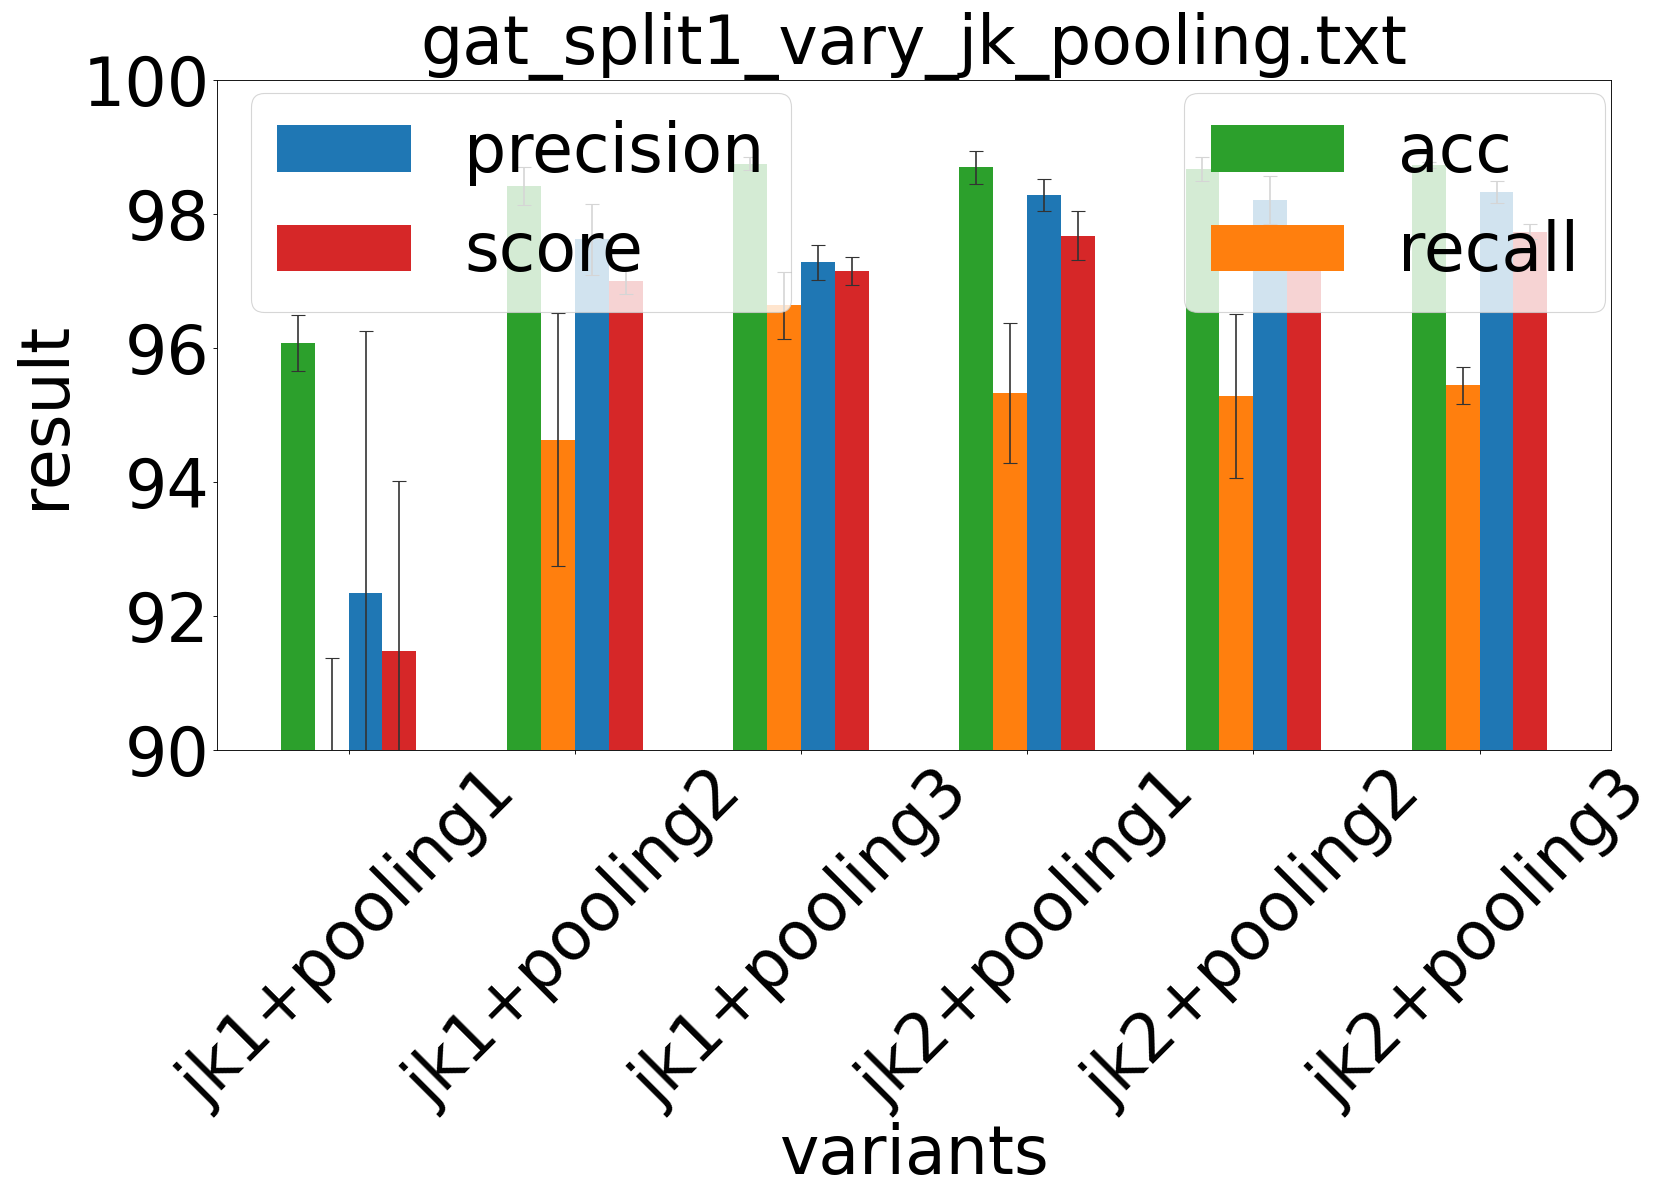
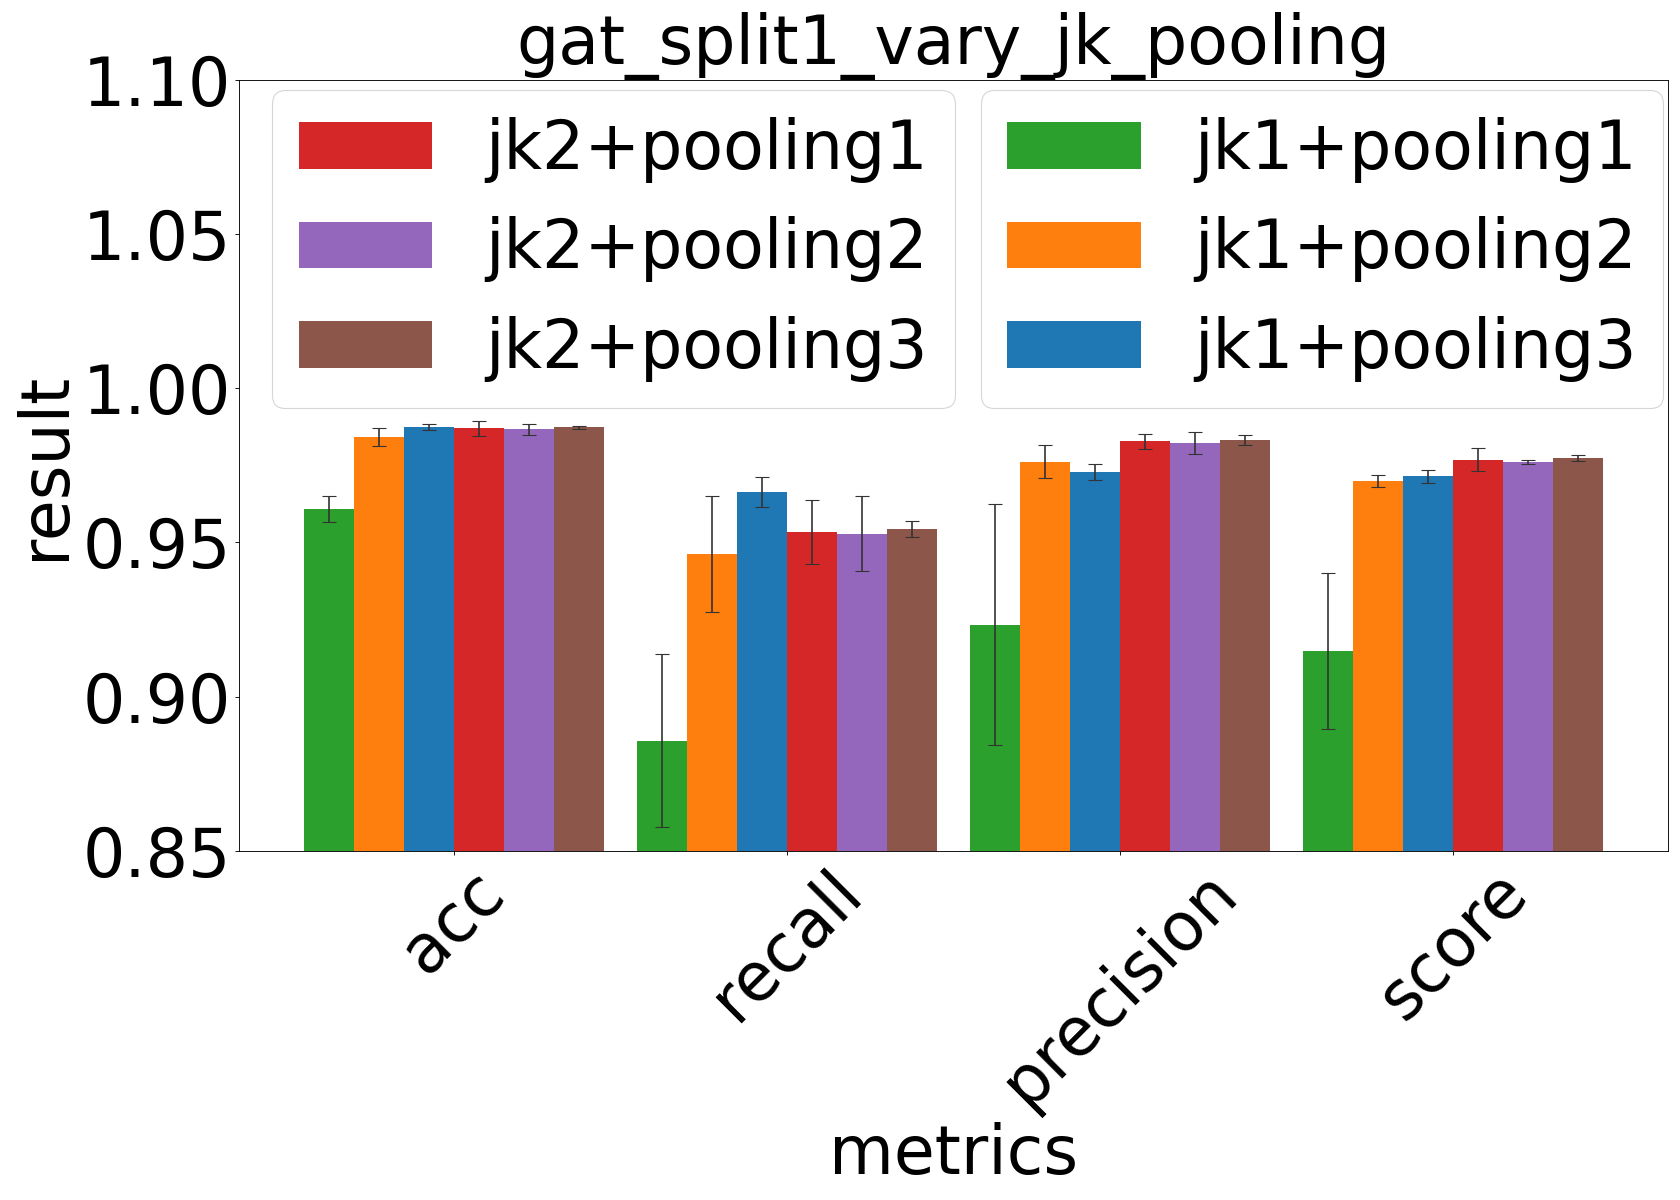
plot gat vary jk+pooling

diff --git a/plot_bar.py b/plot_bar.py
@@ -14,7 +14,9 @@ args = parser.parse_args()
 y_avg = {}
 y_std = {}
 configs = []
+metrics = []
 with open(f"rslt_data/{args.datafile}", "r") as fin:
+    line_cnt = 0
     for line in fin.readlines():
         items = line.strip('\n').split('Avg.')
         config = (items[0].split('_')[1]+'+'+items[0].split('_')[2]).strip(',')
@@ -22,12 +24,15 @@ with open(f"rslt_data/{args.datafile}", "r") as fin:
         for i in range(1, len(items)):
             metric_rslt = items[i].split(':')
             metric = metric_rslt[0]
-            if metric not in y_avg.keys():
-                y_avg[metric] = []
-                y_std[metric] = []
+            if line_cnt == 0:
+                metrics.append(metric)
+            if config not in y_avg.keys():
+                y_avg[config] = []
+                y_std[config] = []
             avg_std = metric_rslt[1].split('+-')
-            y_avg[metric].append(float(avg_std[0]))
-            y_std[metric].append(float(avg_std[1][:4]))
+            y_avg[config].append(float(avg_std[0])/100)
+            y_std[config].append(float(avg_std[1][:4])/100)
+        line_cnt += 1
 
 print("y_avg:", y_avg)
 print("y_std:", y_std)
@@ -40,7 +45,7 @@ color_dict = {'red':    '#D62728',
               'brown':  '#8C564B',
               'purple': '#9467BD'}
 
-metrics = list(y_avg.keys())
+# metrics = list(y_avg.keys())
 print("metrics:", metrics)
 error_kw = {'ecolor' : '0.2', 'capsize' :6 }
 alpha=1
@@ -50,30 +55,35 @@ fontsize = 60
 ticks_fontsize = 60 
 legend_fontsize = 60
 plt.figure(figsize=(21,15), dpi=80)
-xs_str = configs
+xs_str = metrics
 x_locs = np.arange(len(xs_str))  # x轴刻度标签位置
 width = 0.15 # 柱子宽度
-# 四个柱子
+# 6个柱子
 if args.with_std == 1:
-    bar1 = plt.bar(x_locs-1.5*width, y_avg[metrics[0]], yerr=y_std[metrics[0]], width=width, error_kw=error_kw, alpha=alpha ,color=color_dict['green'], label=metrics[0])
-    bar2 = plt.bar(x_locs-0.5*width, y_avg[metrics[1]], yerr=y_std[metrics[1]], width=width, error_kw=error_kw, alpha=alpha ,color=color_dict['orange'], label=metrics[1])
-    bar3 = plt.bar(x_locs+0.5*width, y_avg[metrics[2]], yerr=y_std[metrics[2]], width=width, error_kw=error_kw, alpha=alpha, color=color_dict['blue'], label=metrics[2])
-    bar4 = plt.bar(x_locs+1.5*width, y_avg[metrics[3]], yerr=y_std[metrics[3]], width=width, error_kw=error_kw, alpha=alpha, color=color_dict['red'], label=metrics[3])
+    bar1 = plt.bar(x_locs-2.5*width, y_avg[configs[0]], yerr=y_std[configs[0]], width=width, error_kw=error_kw, alpha=alpha ,color=color_dict['green'], label=configs[0])
+    bar2 = plt.bar(x_locs-1.5*width, y_avg[configs[1]], yerr=y_std[configs[1]], width=width, error_kw=error_kw, alpha=alpha ,color=color_dict['orange'], label=configs[1])
+    bar3 = plt.bar(x_locs-0.5*width, y_avg[configs[2]], yerr=y_std[configs[2]], width=width, error_kw=error_kw, alpha=alpha, color=color_dict['blue'], label=configs[2])
+    bar4 = plt.bar(x_locs+0.5*width, y_avg[configs[3]], yerr=y_std[configs[3]], width=width, error_kw=error_kw, alpha=alpha, color=color_dict['red'], label=configs[3])
+    bar5 = plt.bar(x_locs+1.5*width, y_avg[configs[4]], yerr=y_std[configs[4]], width=width, error_kw=error_kw, alpha=alpha, color=color_dict['purple'], label=configs[4])
+    bar6 = plt.bar(x_locs+2.5*width, y_avg[configs[5]], yerr=y_std[configs[5]], width=width, error_kw=error_kw, alpha=alpha, color=color_dict['brown'], label=configs[5])
 else:
-    bar1 = plt.bar(x_locs-1.5*width, y_avg[metrics[0]], width=width, alpha=alpha ,color=color_dict['green'], label=metrics[0])
-    bar2 = plt.bar(x_locs-0.5*width, y_avg[metrics[1]], width=width, alpha=alpha ,color=color_dict['orange'], label=metrics[1])
-    bar3 = plt.bar(x_locs+0.5*width, y_avg[metrics[2]], width=width, alpha=alpha, color=color_dict['blue'], label=metrics[2])
-    bar4 = plt.bar(x_locs+1.5*width, y_avg[metrics[3]], width=width, alpha=alpha, color=color_dict['red'], label=metrics[3])
+    bar1 = plt.bar(x_locs-1.5*width, y_avg[configs[0]], width=width, alpha=alpha ,color=color_dict['green'], label=configs[0])
+    bar2 = plt.bar(x_locs-0.5*width, y_avg[configs[1]], width=width, alpha=alpha ,color=color_dict['orange'], label=configs[1])
+    bar3 = plt.bar(x_locs+0.5*width, y_avg[configs[2]], width=width, alpha=alpha, color=color_dict['blue'], label=configs[2])
+    bar4 = plt.bar(x_locs+1.5*width, y_avg[configs[3]], width=width, alpha=alpha, color=color_dict['red'], label=configs[3])
+    bar5 = plt.bar(x_locs+1.5*width, y_avg[configs[4]], width=width, alpha=alpha, color=color_dict['purple'], label=configs[4])
+    bar6 = plt.bar(x_locs+2.5*width, y_avg[configs[5]], width=width, alpha=alpha, color=color_dict['brown'], label=configs[5])
 
 plt.xticks(x_locs, labels=xs_str, fontsize=ticks_fontsize, rotation=45)
 plt.yticks(fontsize=ticks_fontsize)
-plt.ylim(90,100)
-figure_title = args.datafile.split(' ')[0]
+# plt.ylim(90,100)
+plt.ylim(0.85,1.10)
+figure_title = args.datafile.split('.')[0]
 plt.title(f'{figure_title}', fontsize=fontsize)
-plt.xlabel(f'variants', fontsize=fontsize)
+plt.xlabel(f'metrics', fontsize=fontsize)
 plt.ylabel(f'result', fontsize=fontsize)
-a=plt.legend([bar1, bar2],[metrics[0], metrics[1]], loc="upper right", bbox_to_anchor=(1.02,1.03), fontsize=legend_fontsize)
-plt.legend([bar3, bar4],[metrics[2], metrics[3]],loc="upper left", bbox_to_anchor=(0.00,1.03), fontsize=legend_fontsize)
+a=plt.legend([bar1, bar2, bar3],[configs[0], configs[1], configs[2]], loc="upper right", bbox_to_anchor=(1.02,1.03), fontsize=legend_fontsize)
+plt.legend([bar4, bar5, bar6],[configs[3], configs[4], configs[5]],loc="upper left", bbox_to_anchor=(0.00,1.03), fontsize=legend_fontsize)
 plt.gca().add_artist(a)
 # plt.legend(loc='upper right', bbox_to_anchor=(1, 1), ncol=2, fontsize=legend_fontsize)
 plt.tight_layout()
@@ -81,6 +91,6 @@ import os
 if not os.path.exists(args.outdir):
     os.makedirs(args.outdir)
 if args.filename == '':
-    args.filename = args.datafile.strip('.txt')
+    args.filename = args.datafile.strip('\n').strip('.txt')
 plt.savefig(f'{args.outdir}/{args.filename}.{args.filetype}')
 plt.close()

diff --git a/README.md b/README.md
@@ -32,3 +32,10 @@
 * 将需要画图的数据放到`rslt_data`文件夹下。
 * 运行`plot_bar.py`或`plot_curve.py`文件画图。注意指定结果数据文件。
 * 注意，读入数据部分代码可能需要根据需要调试一下。
+
+例如，
+* gat不同jk+pooling组合结果画图：
+```python
+python plot_bar.py --datafile gat_split1_vary_jk_pooling.txt
+python plot_bar.py --datafile gat_split2_vary_jk_pooling.txt
+```
